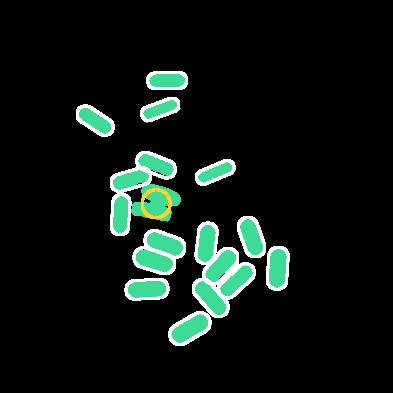
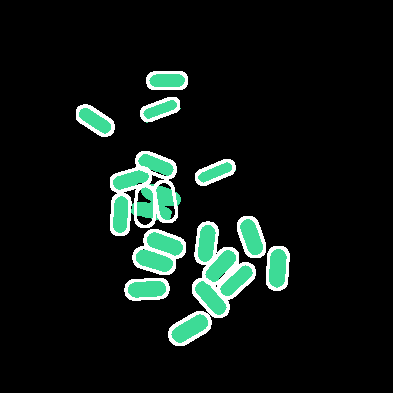
Update /pill (ValEye v20260806-1727)

Changed region(s): [[0.3359, 0.458, 0.458, 0.5802]]

diff --git a/pill/js/counter.js b/pill/js/counter.js
@@ -3912,6 +3912,144 @@ export function countPills(cv, source, opts = {}) {
       }
     }
 
+    // PLACE AGREED CLUMPS + ENFORCE PHYSICS (output-only; counts are settled).
+    //
+    // 1) PLACEMENT PARITY. The seam router attaches per-pill placements only
+    //    to clumps whose count it re-partitioned. Clumps whose count was
+    //    never in dispute stayed as bare "units: k" regions — drawn as a
+    //    yellow ring, never as pills. Measured on the exact-tangency angle
+    //    sweep: counts are 8/8 at EVERY contact angle, but parallel-flush
+    //    pairs place 4/8 — counted, never placed. Every multi-pill region now
+    //    gets placements: fixed-k Lloyd over the region's own pixels, seeded
+    //    along its principal axis, template-sized from the photo's singles.
+    //
+    // 2) RIGID BODIES. The owner: "pills would be touching but not on top of
+    //    each other — there's no intersection." A capsule is a line segment
+    //    with radius, so interpenetration is EXACT: segment distance < sum of
+    //    half-widths. First audit found 8 violating pairs (worst 6.1px) in
+    //    shipped placements. A relaxation pass pushes violators apart along
+    //    the contact normal; singles stay anchored (their own blob is the
+    //    evidence for where they are), only clump members move.
+    if (regions.length && activeMd) {
+      const singlesG = regions.filter((g) => (g.units || 1) === 1 && g.shape);
+      const tMajor = median(singlesG.map((g) => g.shape.major)) || 40;
+      const tMinor = median(singlesG.map((g) => g.shape.minor)) || tMajor * 0.45;
+
+      // pixels per label, one pass, only for labels that need placing
+      const needPlace = regions.filter((g) => (g.units || 1) >= 2 && !(g.pills && g.pills.length) && g.label != null);
+      if (needPlace.length) {
+        const wantLbl = new Map(needPlace.map((g) => [g.label, []]));
+        for (let i = 0; i < activeMd.length; i++) {
+          const arr = wantLbl.get(activeMd[i]);
+          if (arr) arr.push(i);
+        }
+        for (const g of needPlace) {
+          const idx = wantLbl.get(g.label);
+          if (!idx || idx.length < 40) continue;
+          const k = g.units;
+          const pxs = idx.map((i) => [i % w, (i / w) | 0]);
+          // principal axis for seeding
+          let mx = 0, my = 0;
+          for (const [x, y] of pxs) { mx += x; my += y; }
+          mx /= pxs.length; my /= pxs.length;
+          let sxx = 0, sxy = 0, syy = 0;
+          for (const [x, y] of pxs) { const dx = x - mx, dy = y - my; sxx += dx * dx; sxy += dx * dy; syy += dy * dy; }
+          const th0 = 0.5 * Math.atan2(2 * sxy, sxx - syy);
+          const ux = Math.cos(th0), uy = Math.sin(th0);
+          let lo = Infinity, hi = -Infinity;
+          for (const [x, y] of pxs) { const t = (x - mx) * ux + (y - my) * uy; if (t < lo) lo = t; if (t > hi) hi = t; }
+          let C = Array.from({ length: k }, (_, i) => {
+            const t = lo + (hi - lo) * (i + 0.5) / k;
+            return [mx + ux * t, my + uy * t];
+          });
+          const asg = new Array(pxs.length).fill(0);
+          for (let it = 0; it < 18; it++) {
+            let moved = false;
+            for (let i = 0; i < pxs.length; i++) {
+              let b = 0, bd = Infinity;
+              for (let c = 0; c < k; c++) {
+                const d2 = (pxs[i][0] - C[c][0]) ** 2 + (pxs[i][1] - C[c][1]) ** 2;
+                if (d2 < bd) { bd = d2; b = c; }
+              }
+              if (asg[i] !== b) { asg[i] = b; moved = true; }
+            }
+            const sum = Array.from({ length: k }, () => [0, 0, 0]);
+            for (let i = 0; i < pxs.length; i++) { const s2 = sum[asg[i]]; s2[0] += pxs[i][0]; s2[1] += pxs[i][1]; s2[2]++; }
+            for (let c = 0; c < k; c++) if (sum[c][2]) C[c] = [sum[c][0] / sum[c][2], sum[c][1] / sum[c][2]];
+            if (!moved) break;
+          }
+          // per-cell orientation from its own pixels; dims from the template
+          const cs2 = Array.from({ length: k }, () => ({ n: 0, sx: 0, sy: 0, sxx: 0, sxy: 0, syy: 0 }));
+          for (let i = 0; i < pxs.length; i++) {
+            const a2 = cs2[asg[i]], [x, y] = pxs[i];
+            a2.n++; a2.sx += x; a2.sy += y; a2.sxx += x * x; a2.sxy += x * y; a2.syy += y * y;
+          }
+          const pills = [];
+          for (const a2 of cs2) {
+            if (a2.n < 15) continue;
+            const cx = a2.sx / a2.n, cy = a2.sy / a2.n;
+            const cxx = a2.sxx / a2.n - cx * cx, cxy2 = a2.sxy / a2.n - cx * cy, cyy = a2.syy / a2.n - cy * cy;
+            const th = 0.5 * Math.atan2(2 * cxy2, cxx - cyy);
+            pills.push({ cx, cy, theta: +th.toFixed(3), major: tMajor, minor: tMinor, photo: 0 });
+          }
+          if (pills.length) {
+            for (const p2 of pills) p2.photo = pillPhotoScore(distBg.data, w, h, p2);
+            const medP = median(pills.map((p2) => p2.photo)) || 1;
+            for (const p2 of pills) { p2.valid = +Math.min(1, p2.photo / medP).toFixed(2); delete p2.photo; }
+            g.pills = pills;
+            g.placed = 'lloyd';
+          }
+        }
+      }
+
+      // ---- rigid-body relaxation over every placement ----
+      const bodies = [];
+      for (const g of regions) {
+        if (g.pills) for (const p2 of g.pills) bodies.push({ p: p2, movable: true });
+        else if ((g.units || 1) === 1 && g.shape)
+          bodies.push({ p: { cx: g.cx, cy: g.cy, theta: g.shape.theta || 0, major: g.shape.major, minor: g.shape.minor }, movable: false });
+      }
+      const closest = (A, B) => {
+        const ah = Math.max(0, (A.major - A.minor) / 2), bh = Math.max(0, (B.major - B.minor) / 2);
+        const ac = Math.cos(A.theta), as2 = Math.sin(A.theta), bc = Math.cos(B.theta), bs = Math.sin(B.theta);
+        let best = Infinity, nx = 1, ny = 0;
+        for (let i = 0; i <= 16; i++) for (let j = 0; j <= 16; j++) {
+          const t1 = -ah + 2 * ah * i / 16, t2 = -bh + 2 * bh * j / 16;
+          const x1 = A.cx + ac * t1, y1 = A.cy + as2 * t1;
+          const x2 = B.cx + bc * t2, y2 = B.cy + bs * t2;
+          const dx = x1 - x2, dy = y1 - y2, d = Math.hypot(dx, dy);
+          if (d < best) { best = d; if (d > 1e-6) { nx = dx / d; ny = dy / d; } }
+        }
+        return { d: best, nx, ny };
+      };
+      let pairsFixed = 0, worstBefore = 0, worstAfter = 0;
+      for (let iter = 0; iter < 12; iter++) {
+        let worst = 0;
+        for (let i = 0; i < bodies.length; i++) for (let j = i + 1; j < bodies.length; j++) {
+          const A = bodies[i].p, B = bodies[j].p;
+          const reach = (A.major + B.major) / 2 + 4;
+          if (Math.abs(A.cx - B.cx) > reach || Math.abs(A.cy - B.cy) > reach) continue;
+          const { d, nx, ny } = closest(A, B);
+          const need = (A.minor + B.minor) / 2;
+          const pen = need - d;
+          if (pen <= 0.75) continue;
+          if (iter === 0) { pairsFixed++; if (pen > worstBefore) worstBefore = pen; }
+          if (pen > worst) worst = pen;
+          const mA = bodies[i].movable, mB = bodies[j].movable;
+          const step = pen / 2 + 0.2;
+          if (mA && mB) {
+            A.cx += nx * step; A.cy += ny * step;
+            B.cx -= nx * step; B.cy -= ny * step;
+          } else if (mA) { A.cx += nx * (pen + 0.3); A.cy += ny * (pen + 0.3); }
+          else if (mB) { B.cx -= nx * (pen + 0.3); B.cy -= ny * (pen + 0.3); }
+        }
+        worstAfter = worst;
+        if (worst <= 0.75) break;
+      }
+      if (pairsFixed) opts.debug?.({ stage: 'physics', pairs: pairsFixed,
+        worstBefore: +worstBefore.toFixed(1), worstAfter: +worstAfter.toFixed(1) });
+    }
+
     const out = { count, regions, scale, boundaries, width: w, height: h, unitArea, thr: otsuThr };
     if (opts.variant === 'consensus') out.lowConfidence = lowConfidence;
     if (opts.variant === 'consensus' && consensusEligible <= 2 && regions.length) {

diff --git a/pill/test.html b/pill/test.html
@@ -271,7 +271,16 @@
       return n ? sum / n : 0;
     }
     function drawHypotheses(ctx, result, scale, srcCanvas) {
-      const withShape = result.regions.filter((r) => r.shape && (r.units || 1) === 1);
+      // Singles carry their own fitted shape; clump members carry the
+      // counter's per-pill placements (r.pills) — every counted pill is a
+      // drawn, photometrically-validated hypothesis now.
+      const withShape = [];
+      for (const r of result.regions) {
+        if (r.pills?.length) for (const p of r.pills)
+          withShape.push({ cx: p.cx, cy: p.cy,
+            shape: { major: p.major, minor: p.minor, theta: p.theta } });
+        else if (r.shape && (r.units || 1) === 1) withShape.push(r);
+      }
       if (!withShape.length) return null;
       const bg = backgroundEstimate(srcCanvas);
       const scaleToSrc = srcCanvas.width / result.width;

diff --git a/pill/sw.js b/pill/sw.js
@@ -1,4 +1,4 @@
-const CACHE = 'valeye-v20260806-1636';
+const CACHE = 'valeye-v20260806-1727';
 const ASSETS = [
   './',
   'index.html',
